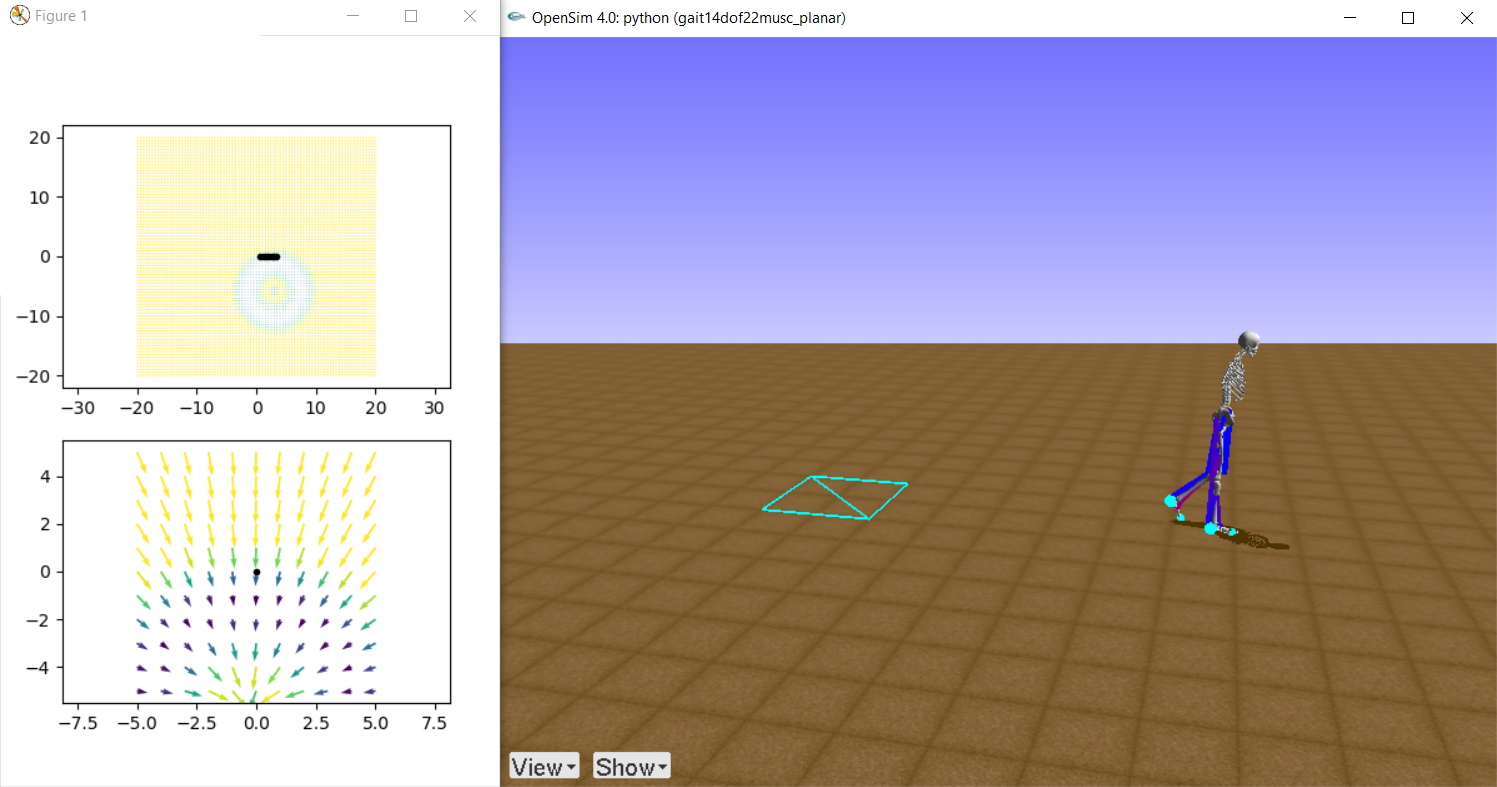
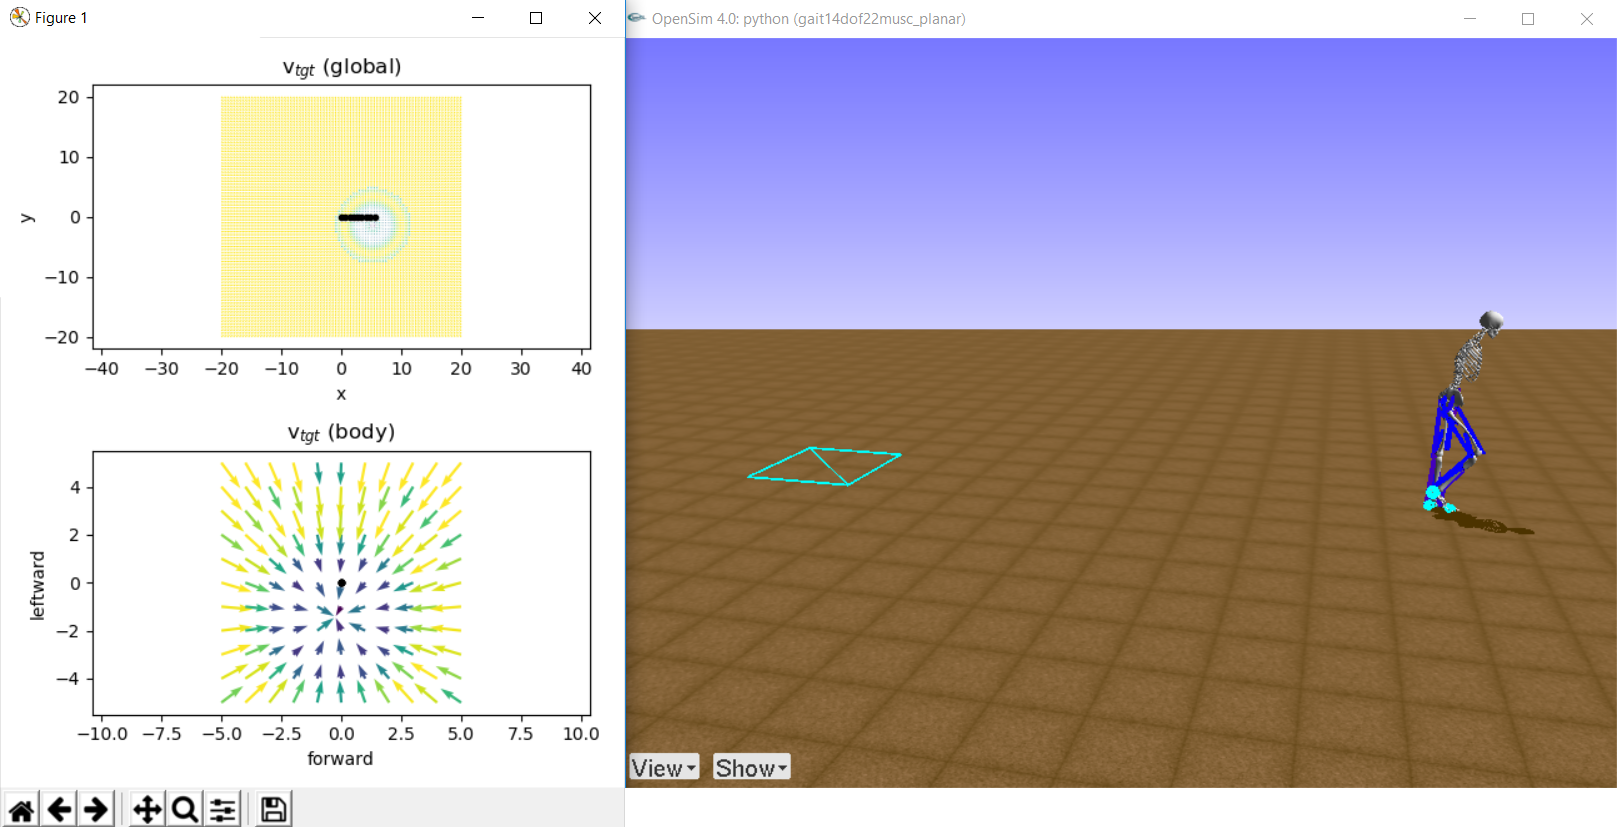
control (song2019) updated

diff --git a/envs/control/loco_reflex_song2019.py b/envs/control/loco_reflex_song2019.py
@@ -79,7 +79,7 @@ class LocoCtrl(object):
         'GAS_2_FG',
         'SOL_1_FG',
         'TA_5_PG', 'TA_5_G_SOL',
-        'c0_f', 'cv_f', # 'theta_tgt_f', 'c0_f', 'cv_f',
+        'theta_tgt_f', 'c0_f', 'cv_f',
         'HAB_3_PG', 'HAB_3_DG', 'HAB_6_PG',
         'HAD_3_PG', 'HAD_3_DG', 'HAD_6_PG'
         ]
@@ -123,13 +123,11 @@ class LocoCtrl(object):
     cp_map = dict(zip(cp_keys, range(len(cp_keys))))
 
 # -----------------------------------------------------------------------------------------------------------------
-    def __init__(self, TIMESTEP, control_mode=1, control_dimension=3, params=np.ones(len(cp_keys)), prosthetic=True):
+    def __init__(self, TIMESTEP, control_mode=1, control_dimension=3, params=np.ones(len(cp_keys))):
         if self.DEBUG:
             print("===========================================")
             print("locomotion controller created in DEBUG mode")
             print("===========================================")
-
-        self.prosthetic = prosthetic
 
         self.control_mode = control_mode
         # 0: spinal control (no brain control)
@@ -253,13 +251,13 @@ class LocoCtrl(object):
         cp['TA_5_G_SOL'] = params[cp_map['TA_5_G_SOL']] *0.5
 
         if self.control_dimension == 3:
-            if len(params) != 45:
+            if len(params) != 46:
                 raise Exception('error in the number of params!!')
-            cp['theta_tgt_f'] = 0.0
-            cp['c0_f'] = params[cp_map['c0_f']] *20*np.pi/180 + 70*np.pi/180
+            cp['theta_tgt_f'] = params[cp_map['theta_tgt_f']] *5.0*np.pi/180
+            cp['c0_f'] = params[cp_map['c0_f']] *20*np.pi/180 + 60*np.pi/180
             cp['cv_f'] = params[cp_map['cv_f']] *10*np.pi/180
-            cp['HAB_3_PG'] = params[cp_map['HAB_3_PG']] *2.0
-            cp['HAB_3_DG'] = params[cp_map['HAB_3_DG']] *0.3
+            cp['HAB_3_PG'] = params[cp_map['HAB_3_PG']] *10.0
+            cp['HAB_3_DG'] = params[cp_map['HAB_3_DG']] *1
             cp['HAB_6_PG'] = params[cp_map['HAB_6_PG']] *2.0
             cp['HAD_3_PG'] = params[cp_map['HAD_3_PG']] *2.0
             cp['HAD_3_DG'] = params[cp_map['HAD_3_DG']] *0.3
@@ -528,27 +526,22 @@ class LocoCtrl(object):
             , 0)
         stim['BFSH'] = pre_stim + S_BFSH_2 + S_BFSH_7 + S_BFSH_8 + S_BFSH_9 + S_BFSH_10
 
-        if self.prosthetic is False or s_leg is 'l_leg':
-            S_GAS_2 = ph_st*np.maximum(
-                cp['GAS_2_FG']*s_l['F_GAS']
-                , 0)
-            stim['GAS'] = pre_stim + S_GAS_2
-            S_SOL_1 = ph_st*np.maximum(
-                cp['SOL_1_FG']*s_l['F_SOL']
-                , 0)
-            stim['SOL'] = pre_stim + S_SOL_1
+        S_GAS_2 = ph_st*np.maximum(
+            cp['GAS_2_FG']*s_l['F_GAS']
+            , 0)
+        stim['GAS'] = pre_stim + S_GAS_2
+        S_SOL_1 = ph_st*np.maximum(
+            cp['SOL_1_FG']*s_l['F_SOL']
+            , 0)
+        stim['SOL'] = pre_stim + S_SOL_1
 
-            S_TA_5 = np.maximum(
-                cp['TA_5_PG']*(s_l['phi_ankle'] - ankle_tgt)
-                , 0)
-            S_TA_5_st = -ph_st*np.maximum(
-                cp['TA_5_G_SOL']*S_SOL_1
-                , 0)
-            stim['TA'] = pre_stim + S_TA_5 + S_TA_5_st
-        else:
-            stim['GAS'] = pre_stim
-            stim['SOL'] = pre_stim
-            stim['TA'] = pre_stim
+        S_TA_5 = np.maximum(
+            cp['TA_5_PG']*(s_l['phi_ankle'] - ankle_tgt)
+            , 0)
+        S_TA_5_st = -ph_st*np.maximum(
+            cp['TA_5_G_SOL']*S_SOL_1
+            , 0)
+        stim['TA'] = pre_stim + S_TA_5 + S_TA_5_st
 
         for muscle in stim:
             stim[muscle] = np.clip(stim[muscle], 0.01, 1.0)

diff --git a/osim/control/osim_loco_reflex_song2019.py b/osim/control/osim_loco_reflex_song2019.py
@@ -11,20 +11,11 @@ import numpy as np
 from envs.control.loco_reflex_song2019 import LocoCtrl
 
 class OsimReflexCtrl(object):
-    # from gait14dof22musc_planar_20170320
-    Fmax_RF = 2191.74098360656
-    Fmax_VAS = 9593.95082
-    Fmax_GAS = 4690.57377
-    Fmax_SOL = 7924.996721
 
-    Fmax_ABD = 4460.290481
-    Fmax_ADD = 3931.8
-
-    def __init__(self, dt=0.01, mode='3D', prosthetic=False):
+    def __init__(self, dt=0.01, mode='3D'):
         self.dt = dt
         self.t = 0
         self.mode = mode
-        self.prosthetic = prosthetic
 
         if self.mode is '3D':
             self.n_par = len(LocoCtrl.cp_keys)
@@ -33,7 +24,7 @@ class OsimReflexCtrl(object):
             self.n_par = 37
             control_dimension = 2
         self.cp_map = LocoCtrl.cp_map
-        self.ctrl = LocoCtrl(self.dt, control_dimension=control_dimension, params=np.ones(self.n_par), prosthetic=self.prosthetic)
+        self.ctrl = LocoCtrl(self.dt, control_dimension=control_dimension, params=np.ones(self.n_par))
         self.par_space = self.ctrl.par_space
 
 # -----------------------------------------------------------------------------------------------------------------
@@ -113,6 +104,9 @@ class OsimReflexCtrl(object):
                 self.ctrl.stim['r_leg']['HFL'], # (iliopsoas_r)
                 self.ctrl.stim['r_leg']['RF'], # (rect_fem_r)
                 self.ctrl.stim['r_leg']['VAS'], # (vasti_r)
+                self.ctrl.stim['r_leg']['GAS'], # (gastroc_r)
+                self.ctrl.stim['r_leg']['SOL'], # (soleus_r)
+                self.ctrl.stim['r_leg']['TA'], # (tib_ant_r)
                 self.ctrl.stim['l_leg']['HAM'], # (hamstring_l)
                 self.ctrl.stim['l_leg']['BFSH'], # (bifemsh_l)
                 self.ctrl.stim['l_leg']['GLU'], # (glut_max_l)
@@ -126,17 +120,15 @@ class OsimReflexCtrl(object):
         if self.mode is '3D':
             stim.insert(0, self.ctrl.stim['r_leg']['HAB']) # (abd_r)
             stim.insert(1, self.ctrl.stim['r_leg']['HAD']) # (add_r)
-            stim.insert(8, self.ctrl.stim['l_leg']['HAB']) # (abd_r)
-            stim.insert(9, self.ctrl.stim['l_leg']['HAD']) # (add_r)
+            stim.insert(11, self.ctrl.stim['l_leg']['HAB']) # (abd_r)
+            stim.insert(12, self.ctrl.stim['l_leg']['HAD']) # (add_r)
         elif self.mode is '2D':
+            Fmax_ABD = 4460.290481
+            Fmax_ADD = 3931.8
+
             stim.insert(0, .1)
-            stim.insert(1, .1*self.Fmax_ADD/self.Fmax_ABD)
-            stim.insert(8, .1)
-            stim.insert(9, .1*self.Fmax_ADD/self.Fmax_ABD)
+            stim.insert(1, .1*Fmax_ADD/Fmax_ABD)
+            stim.insert(11, .1)
+            stim.insert(12, .1*Fmax_ADD/Fmax_ABD)
 
-
-        if self.prosthetic is False:
-            stim.insert(8, self.ctrl.stim['r_leg']['GAS'])
-            stim.insert(9, self.ctrl.stim['r_leg']['SOL'])
-            stim.insert(10, self.ctrl.stim['r_leg']['TA'])
         return stim

diff --git a/osim/env/osim.py b/osim/env/osim.py
@@ -392,9 +392,19 @@ class L2M2019Env(OsimEnv):
                     'soleus': 'SOL',
                     'tib_ant': 'TA'}
 
-    INIT_POSE = np.array([0, 0.94, 0, # forward speed, pelvis height, trunk lean
-                    0*np.pi/180, 0*np.pi/180, 0*np.pi/180, 0*np.pi/180, # [right] hip adduct, hip flex, knee extend, ankle flex
-                    0*np.pi/180, 0*np.pi/180, 0*np.pi/180, 0*np.pi/180]) # [left] hip adduct, hip flex, knee extend, ankle flex
+    INIT_POSE = np.array([
+        0, # forward speed
+        0, # rightward speed
+        0.94, # pelvis height
+        0*np.pi/180, # trunk lean
+        0*np.pi/180, # [right] hip adduct
+        0*np.pi/180, # hip flex
+        0*np.pi/180, # knee extend
+        0*np.pi/180, # ankle flex
+        0*np.pi/180, # [left] hip adduct
+        0*np.pi/180, # hip flex
+        0*np.pi/180, # knee extend
+        0*np.pi/180]) # ankle flex
 
     def get_model_key(self):
         return self.model
@@ -462,16 +472,17 @@ class L2M2019Env(OsimEnv):
         QQ[1] = 0*np.pi/180 # roll
         QQ[2] = 0*np.pi/180 # yaw
         QQDot[3] = init_pose[0] # forward speed
-        QQ[4] = init_pose[1] # pelvis height
-        QQ[0] = -init_pose[2] # trunk lean: (+) backward
-        QQ[7] = -init_pose[3] # right hip abduct
-        QQ[6] = -init_pose[4] # right hip flex
-        QQ[13] = init_pose[5] # right knee extend
-        QQ[15] = -init_pose[6] # right ankle flex
-        QQ[10] = -init_pose[7] # left hip adduct
-        QQ[9] = -init_pose[8] # left hip flex
-        QQ[14] = init_pose[9] # left knee extend
-        QQ[16] = -init_pose[10] # left ankle flex
+        QQDot[5] = init_pose[1] # forward speed
+        QQ[4] = init_pose[2] # pelvis height
+        QQ[0] = -init_pose[3] # trunk lean: (+) backward
+        QQ[7] = -init_pose[4] # right hip abduct
+        QQ[6] = -init_pose[5] # right hip flex
+        QQ[13] = init_pose[6] # right knee extend
+        QQ[15] = -init_pose[7] # right ankle flex
+        QQ[10] = -init_pose[8] # left hip adduct
+        QQ[9] = -init_pose[9] # left hip flex
+        QQ[14] = init_pose[10] # left knee extend
+        QQ[16] = -init_pose[11] # left ankle flex
 
         state.setQ(QQ)
         state.setU(QQDot)
@@ -518,8 +529,8 @@ class L2M2019Env(OsimEnv):
         state_desc = self.get_state_desc()
 
         # update contact
-        r_contact = True if state_desc['forces']['foot_r'][1] < 0 else False
-        l_contact = True if state_desc['forces']['foot_l'][1] < 0 else False
+        r_contact = True if state_desc['forces']['foot_r'][1] < -0.05*(self.MASS*self.G) else False
+        l_contact = True if state_desc['forces']['foot_l'][1] < -0.05*(self.MASS*self.G) else False
 
         self.footstep['new'] = False
         if (not self.footstep['r_contact'] and r_contact) or (not self.footstep['l_contact'] and l_contact):

diff --git a/examples/sim_L2M2019_control.py b/examples/sim_L2M2019_control.py
@@ -10,33 +10,31 @@ sim_dt = 0.01
 sim_t = 10
 timstep_limit = int(round(sim_t/sim_dt))
 
-init_pose = np.array([1.5, .9, 10*np.pi/180, # forward speed, pelvis height, trunk lean
-                -3*np.pi/180, -30*np.pi/180, -10*np.pi/180, 10*np.pi/180, # [right] hip abduct, hip extend, knee extend, ankle extend
-                -3*np.pi/180, 5*np.pi/180, -40*np.pi/180, -0*np.pi/180]) # [left] hip abduct, hip extend, knee extend, ankle extend
+
+INIT_POSE = np.array([
+    1.699999999999999956e+00, # forward speed
+    .5, # rightward speed
+    9.023245653983965608e-01, # pelvis height
+    2.012303881285582852e-01, # trunk lean
+    0*np.pi/180, # [right] hip adduct
+    -6.952390849304798115e-01, # hip flex
+    -3.231075259785813891e-01, # knee extend
+    1.709011708233401095e-01, # ankle flex
+    0*np.pi/180, # [left] hip adduct
+    -5.282323914341899296e-02, # hip flex
+    -8.041966456860847323e-01, # knee extend
+    -1.745329251994329478e-01]) # ankle flex
+
+if mode is '2D':
+    params = np.loadtxt('./osim/control/params_2D.txt')
+elif mode is '3D':
+    params = np.loadtxt('./osim/control/params_3D_init.txt')
 
 locoCtrl = OsimReflexCtrl(mode=mode, dt=sim_dt)
 env = L2M2019Env(visualize=visualize, seed=seed, difficulty=difficulty)
 env.change_model(model=mode, difficulty=difficulty, seed=seed)
-obs_dict = env.reset(project=True, seed=seed, init_pose=init_pose, obs_as_dict=True)
+obs_dict = env.reset(project=True, seed=seed, obs_as_dict=True, init_pose=INIT_POSE)
 env.spec.timestep_limit = timstep_limit
-
-# set control parameters
-if mode is '2D':
-    params = np.ones(37)
-    #params = np.loadtxt('./optim_data/cma/trial_190505_L2M2019CtrlEnv_2D_d0_best_w.txt')
-    #xrecentbest = open("./optim_data/cma/trial_190505_L2M2019CtrlEnv_2D_d0_xrecentbest.dat", "r")
-    #last = np.fromstring(line, sep=' ')
-    #params = np.array(last[5:])
-
-    #params_3 = np.append(params, [1, 1, 1, 1, 1, 1, 1, 1])
-    #np.savetxt('params_3D.txt', params_3)
-elif mode is '3D':
-    params = np.ones(45)
-    #params = np.loadtxt('./optim_data/cma/trial_190505_L2M2019CtrlEnv_d0_best_w.txt')
-    #params = np.loadtxt('./optim_data/params_3D_init.txt')
-    #xrecentbest = open("./optim_data/cma/trial_190505_L2M2019CtrlEnv_d0_xrecentbest.dat", "r")
-    #last = np.fromstring(line, sep=' ')
-    #params = np.array(last[5:])
 
 total_reward = 0
 t = 0
@@ -45,12 +43,10 @@ while True:
     i += 1
     t += sim_dt
 
-    # chage params
-    # params = myHigherLayeyController(obs_dict)
-
     locoCtrl.set_control_params(params)
     action = locoCtrl.update(obs_dict)
     obs_dict, reward, done, info = env.step(action, project = True, obs_as_dict=True)
     total_reward += reward
     if done:
         break
+print('    score={} time={}sec'.format(total_reward, t))
